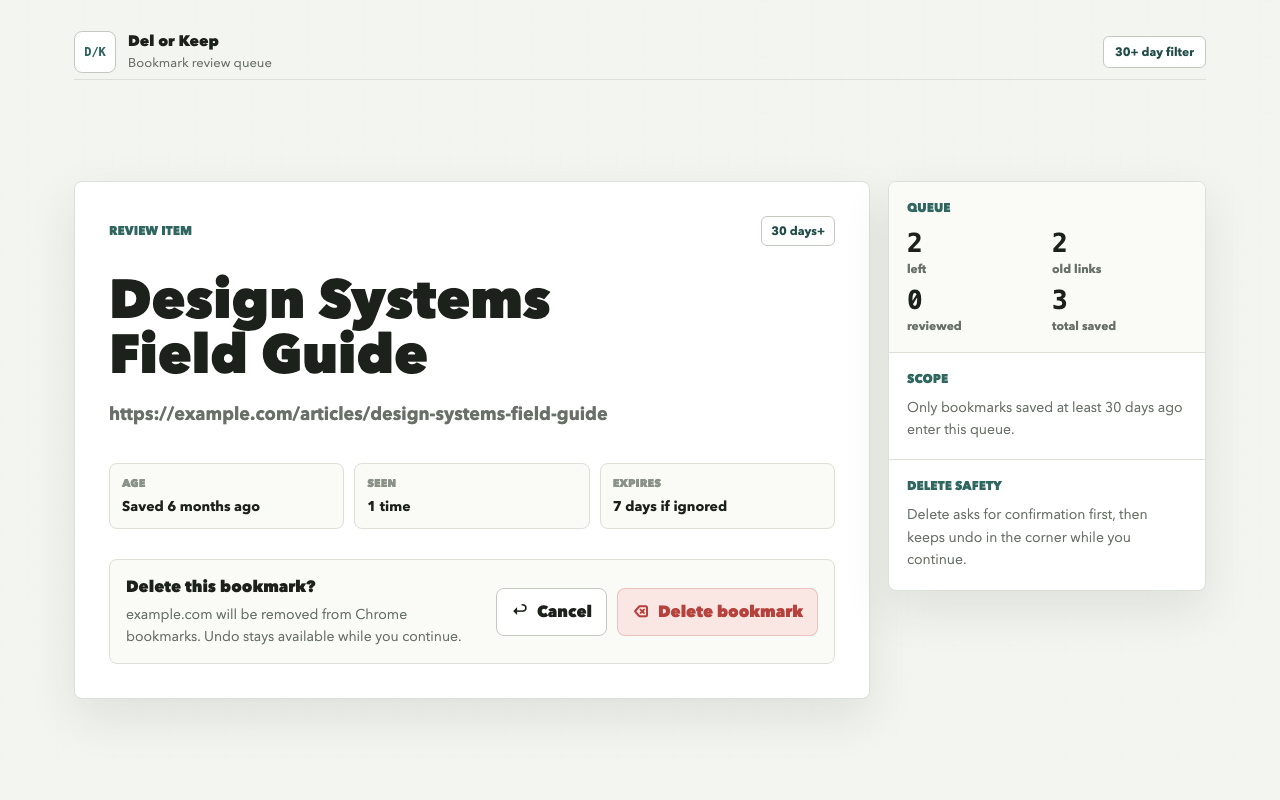
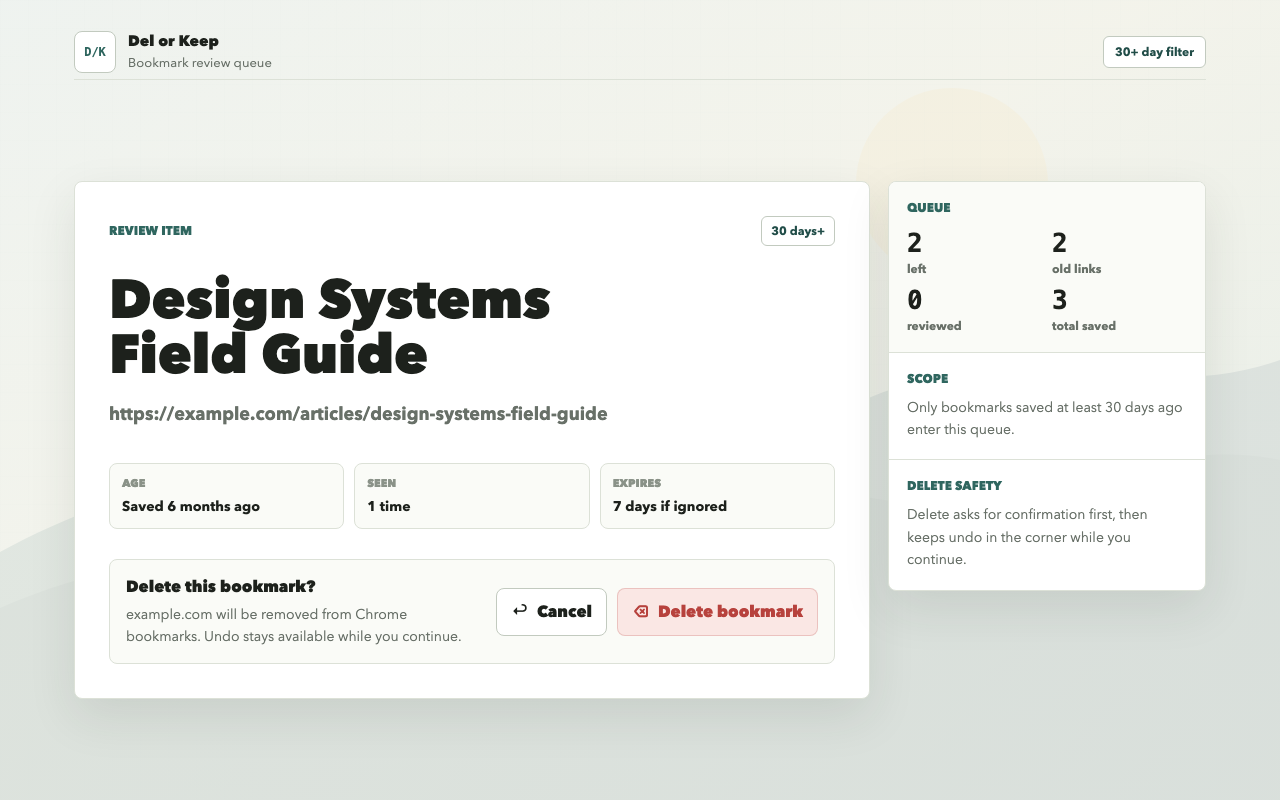
Document Bing daily wallpaper permission

Changed region(s): [[0.5, 0.5625, 1.0, 1.0]]

diff --git a/extension/dist/services/backgroundImage.js b/extension/dist/services/backgroundImage.js
@@ -1,0 +1,58 @@
+const BING_IMAGE_API_URL = "https://www.bing.com/HPImageArchive.aspx?format=js&idx=0&n=8&mkt=en-US";
+const BING_BASE_URL = "https://www.bing.com";
+const BACKGROUND_REQUEST_TIMEOUT_MS = 2500;
+
+function normalizeImageUrl(imageUrl) {
+  if (!imageUrl) {
+    return null;
+  }
+
+  return new URL(imageUrl, BING_BASE_URL).href;
+}
+
+function pickRandomImage(images = []) {
+  if (!images.length) {
+    return null;
+  }
+
+  return images[Math.floor(Math.random() * images.length)];
+}
+
+function formatCssUrl(url) {
+  return `url("${url.replace(/["\\\n\r\f]/g, "\\$&")}")`;
+}
+
+async function fetchBingDailyImage() {
+  const controller = new AbortController();
+  const timeoutId = setTimeout(() => controller.abort(), BACKGROUND_REQUEST_TIMEOUT_MS);
+
+  try {
+    const response = await fetch(BING_IMAGE_API_URL, { signal: controller.signal });
+
+    if (!response.ok) {
+      throw new Error(`Bing image API returned ${response.status}`);
+    }
+
+    const payload = await response.json();
+    return normalizeImageUrl(pickRandomImage(payload?.images)?.url);
+  } finally {
+    clearTimeout(timeoutId);
+  }
+}
+
+export async function applyDailyBackgroundImage(target = document.documentElement) {
+  try {
+    const imageUrl = await fetchBingDailyImage();
+
+    if (!imageUrl) {
+      return null;
+    }
+
+    target.style.setProperty("--page-bg-image", formatCssUrl(imageUrl));
+    target.dataset.backgroundSource = "bing";
+    return imageUrl;
+  } catch (error) {
+    console.debug("Daily background image unavailable.", error);
+    return null;
+  }
+}

diff --git a/extension/src/services/backgroundImage.js b/extension/src/services/backgroundImage.js
@@ -1,0 +1,58 @@
+const BING_IMAGE_API_URL = "https://www.bing.com/HPImageArchive.aspx?format=js&idx=0&n=8&mkt=en-US";
+const BING_BASE_URL = "https://www.bing.com";
+const BACKGROUND_REQUEST_TIMEOUT_MS = 2500;
+
+function normalizeImageUrl(imageUrl) {
+  if (!imageUrl) {
+    return null;
+  }
+
+  return new URL(imageUrl, BING_BASE_URL).href;
+}
+
+function pickRandomImage(images = []) {
+  if (!images.length) {
+    return null;
+  }
+
+  return images[Math.floor(Math.random() * images.length)];
+}
+
+function formatCssUrl(url) {
+  return `url("${url.replace(/["\\\n\r\f]/g, "\\$&")}")`;
+}
+
+async function fetchBingDailyImage() {
+  const controller = new AbortController();
+  const timeoutId = setTimeout(() => controller.abort(), BACKGROUND_REQUEST_TIMEOUT_MS);
+
+  try {
+    const response = await fetch(BING_IMAGE_API_URL, { signal: controller.signal });
+
+    if (!response.ok) {
+      throw new Error(`Bing image API returned ${response.status}`);
+    }
+
+    const payload = await response.json();
+    return normalizeImageUrl(pickRandomImage(payload?.images)?.url);
+  } finally {
+    clearTimeout(timeoutId);
+  }
+}
+
+export async function applyDailyBackgroundImage(target = document.documentElement) {
+  try {
+    const imageUrl = await fetchBingDailyImage();
+
+    if (!imageUrl) {
+      return null;
+    }
+
+    target.style.setProperty("--page-bg-image", formatCssUrl(imageUrl));
+    target.dataset.backgroundSource = "bing";
+    return imageUrl;
+  } catch (error) {
+    console.debug("Daily background image unavailable.", error);
+    return null;
+  }
+}

diff --git a/extension/dist/newtab.js b/extension/dist/newtab.js
@@ -2,6 +2,7 @@ import { createBookmarkCard } from "./components/bookmarkCard.js";
 import { createQueuePanel } from "./components/queuePanel.js";
 import { createLoadingCard, createStateCard } from "./components/stateCard.js";
 import { createUndoToast } from "./components/undoToast.js";
+import { applyDailyBackgroundImage } from "./services/backgroundImage.js";
 import { deleteBookmark, getNextBookmark, keepBookmark, openBookmark, restoreDeletedBookmark } from "./services/queue.js";
 import { createElement, replaceChildren } from "./utils/dom.js";
 
@@ -230,4 +231,5 @@ async function handleUndoDelete() {
   await loadNextBookmark();
 }
 
+applyDailyBackgroundImage();
 loadNextBookmark();

diff --git a/extension/src/newtab.js b/extension/src/newtab.js
@@ -2,6 +2,7 @@ import { createBookmarkCard } from "./components/bookmarkCard.js";
 import { createQueuePanel } from "./components/queuePanel.js";
 import { createLoadingCard, createStateCard } from "./components/stateCard.js";
 import { createUndoToast } from "./components/undoToast.js";
+import { applyDailyBackgroundImage } from "./services/backgroundImage.js";
 import { deleteBookmark, getNextBookmark, keepBookmark, openBookmark, restoreDeletedBookmark } from "./services/queue.js";
 import { createElement, replaceChildren } from "./utils/dom.js";
 
@@ -230,4 +231,5 @@ async function handleUndoDelete() {
   await loadNextBookmark();
 }
 
+applyDailyBackgroundImage();
 loadNextBookmark();

diff --git a/store/listing.md b/store/listing.md
@@ -14,11 +14,11 @@ Productivity
 
 ## Single Purpose
 
-Del or Keep helps users review and clean up old Chrome bookmarks from the new tab page.
+Del or Keep turns the Chrome new tab page into a focused old-bookmark review workspace.
 
 ## Detailed Description
 
-Del or Keep turns each new tab into a small bookmark cleanup decision.
+Del or Keep turns each new tab into a small bookmark cleanup decision, set against a daily Bing homepage image background.
 
 The extension picks one bookmark saved at least 30 days ago and shows its title, URL, age, seen count, and queue status. From there you can:
 
@@ -35,8 +35,8 @@ Privacy posture:
 - No ads.
 - No analytics.
 - No remote code.
-- No external network host permissions.
 - Bookmark review state stays in `chrome.storage.local`.
+- The only external request is to Bing for the daily new tab background image. Bookmark data is not sent with that request.
 
 ## Permission Justifications
 
@@ -44,9 +44,13 @@ Privacy posture:
 
 `storage`: Required to store local review state, including which bookmark IDs have been shown, kept, deleted, restored, or expired from the queue.
 
+`https://www.bing.com/*`: Required to request Bing homepage image metadata and image assets for the new tab background. This request is only for the visual background. Bookmark titles, URLs, folder placement, and review state are not sent to Bing, and the bookmark review queue still works if the image request fails.
+
 ## Privacy Questionnaire Notes
 
-Do not claim the extension has no user data just because the data stays local. The extension processes bookmark titles, URLs, folder placement, and bookmark timestamps on the user's device. The correct disclosure should make clear that this data is not sold, transferred, used for ads, used for creditworthiness, or sent to the developer or third-party servers.
+Do not claim the extension has no user data just because bookmark data stays local. The extension processes bookmark titles, URLs, folder placement, and bookmark timestamps on the user's device. The correct disclosure should make clear that this bookmark data is not sold, transferred, used for ads, used for creditworthiness, or sent to the developer or third-party servers.
+
+Also disclose the Bing background request separately: the extension requests Bing homepage image metadata and image assets to render the new tab background. No bookmark data or review metadata is included in that request.
 
 ## Suggested Support URL
 

diff --git a/store/reviewer-notes.md b/store/reviewer-notes.md
@@ -1,13 +1,13 @@
 # Reviewer Notes
 
-Del or Keep is a Manifest V3 extension with one purpose: help users review old Chrome bookmarks from the new tab page.
+Del or Keep is a Manifest V3 extension with one purpose: turn the new tab page into a focused old-bookmark review workspace.
 
 Testing steps:
 
 1. Load the unpacked extension from `extension/dist`.
 2. Make sure the Chrome profile has at least one bookmark older than 30 days.
 3. Open a new tab.
-4. The extension shows one old bookmark with Open, Keep, and Delete actions.
+4. The extension shows one old bookmark with Open, Keep, and Delete actions, with a Bing daily image as the page background when the image request succeeds.
 5. Open launches the bookmark in a new tab.
 6. Keep marks the bookmark as reviewed in local extension storage.
 7. Delete first shows a confirmation state, then removes the bookmark only after confirmation.
@@ -17,5 +17,6 @@ Permission explanations:
 
 - `bookmarks` is required to read bookmarks, delete only user-confirmed bookmarks, and restore a recently deleted bookmark when undo is used.
 - `storage` is required to keep local review queue state.
+- `https://www.bing.com/*` is required to fetch Bing homepage image metadata and image assets for the new tab background.
 
-The extension does not request host permissions. It has no analytics, ads, accounts, remote code, or external network calls.
+The Bing request is only for the visual new tab background. Bookmark titles, URLs, folder placement, and review state are not sent to Bing. The review queue still works if the image request fails. The extension has no analytics, ads, accounts, or remote code.

diff --git a/store/privacy-policy.md b/store/privacy-policy.md
@@ -25,17 +25,21 @@ This data is used only to:
 - Delete a bookmark when the user confirms deletion.
 - Restore a recently deleted bookmark when the user chooses undo.
 
+Del or Keep also requests Bing homepage image metadata and image assets to show a daily background on the new tab page.
+
 ## Storage and Transfer
 
 Del or Keep stores review metadata in `chrome.storage.local` on the user's device.
 
 Del or Keep does not send bookmark data, review metadata, or any other user data to the developer or to third-party servers.
 
-Del or Keep does not use analytics, advertising SDKs, accounts, remote code, or external network host permissions.
+The extension requests Bing homepage image metadata and image assets from `https://www.bing.com/*` for the new tab background. Bookmark titles, bookmark URLs, bookmark folder information, and review metadata are not included in that request. Microsoft/Bing may receive ordinary web request metadata such as IP address, user agent, and request time.
+
+Del or Keep does not use analytics, advertising SDKs, accounts, or remote code.
 
 ## Data Sharing
 
-Del or Keep does not sell, rent, share, or transfer user data.
+Del or Keep does not sell, rent, share, or transfer bookmark data or review metadata.
 
 Information received from Chrome APIs is used only for the extension's single purpose and in accordance with the Chrome Web Store User Data Policy, including the Limited Use requirements.
 

diff --git a/README.md b/README.md
@@ -37,6 +37,8 @@ The release zip is intentionally ignored by git because it is a generated upload
 
 ## Privacy Posture
 
-Bookmark titles, URLs, folder placement, and review state stay in Chrome APIs and `chrome.storage.local` on the user's device. The extension has no analytics, ads, accounts, remote code, or external network host permissions.
+Bookmark titles, URLs, folder placement, and review state stay in Chrome APIs and `chrome.storage.local` on the user's device. The extension has no analytics, ads, accounts, or remote code.
+
+The only external host permission is `https://www.bing.com/*`, used to fetch Bing homepage image metadata and image assets for the new tab background. Bookmark titles, URLs, folder placement, and review state are not sent to Bing.
 
 Before final submission, publish `store/privacy-policy.md` at a public URL and paste that URL into the Chrome Web Store privacy form.

diff --git a/store/demo-video-script.md b/store/demo-video-script.md
@@ -17,4 +17,4 @@ Target length: 35-45 seconds.
 
 ## Voiceover
 
-Del or Keep helps you clean up old Chrome bookmarks one new tab at a time. It only reviews bookmarks saved at least 30 days ago. Open before deciding, keep what still matters, or delete with confirmation and undo. Review state stays local in Chrome, with no account, analytics, ads, or external network permissions.
+Del or Keep helps you clean up old Chrome bookmarks one new tab at a time, with a daily Bing image as the new tab backdrop. It only reviews bookmarks saved at least 30 days ago. Open before deciding, keep what still matters, or delete with confirmation and undo. Review state stays local in Chrome, with no account, analytics, ads, or remote code.

diff --git a/store/README.md b/store/README.md
@@ -46,7 +46,7 @@ Use `store/demo-video-script.md` if you decide to add the optional YouTube demo 
 - Choose the final support URL and publisher contact email.
 - Upload `releases/del-or-keep-0.1.0.zip`.
 - Upload the screenshots and promotional tiles.
-- Complete the privacy questionnaire consistently with the local-only bookmark handling described in `store/privacy-policy.md`.
+- Complete the privacy questionnaire consistently with the local bookmark handling and Bing background request described in `store/privacy-policy.md`.
 - Submit for review.
 
 Official references:
